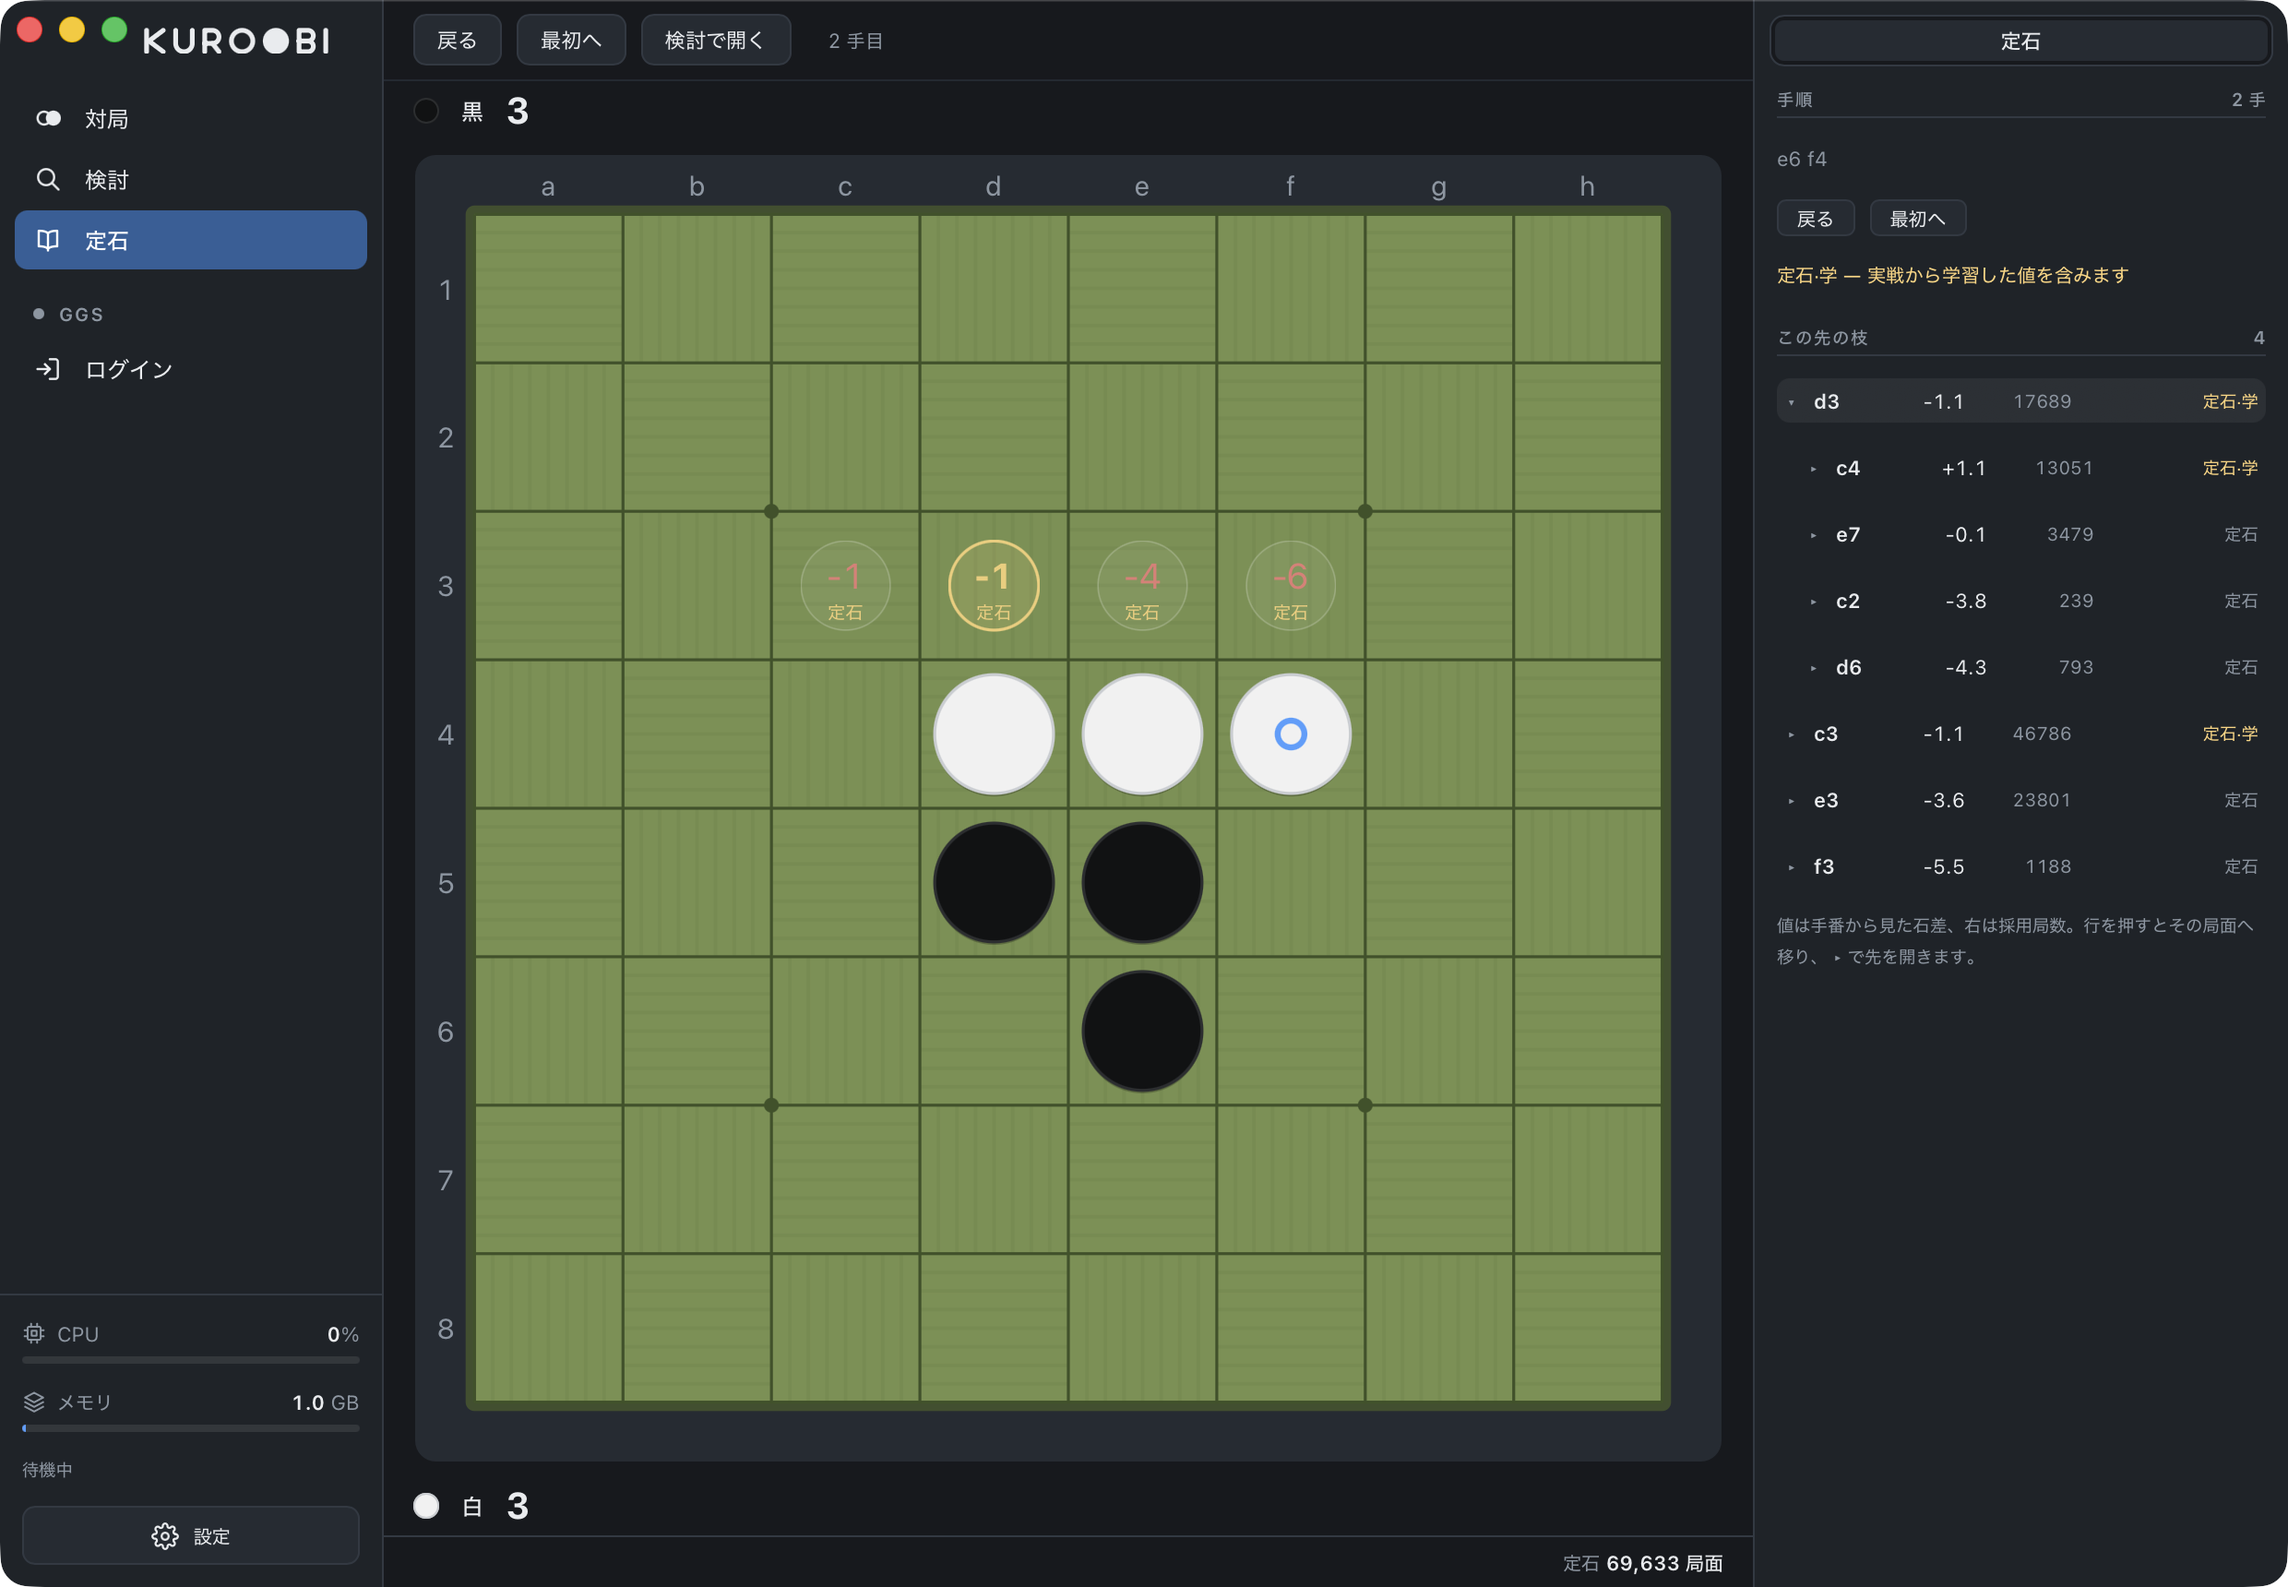
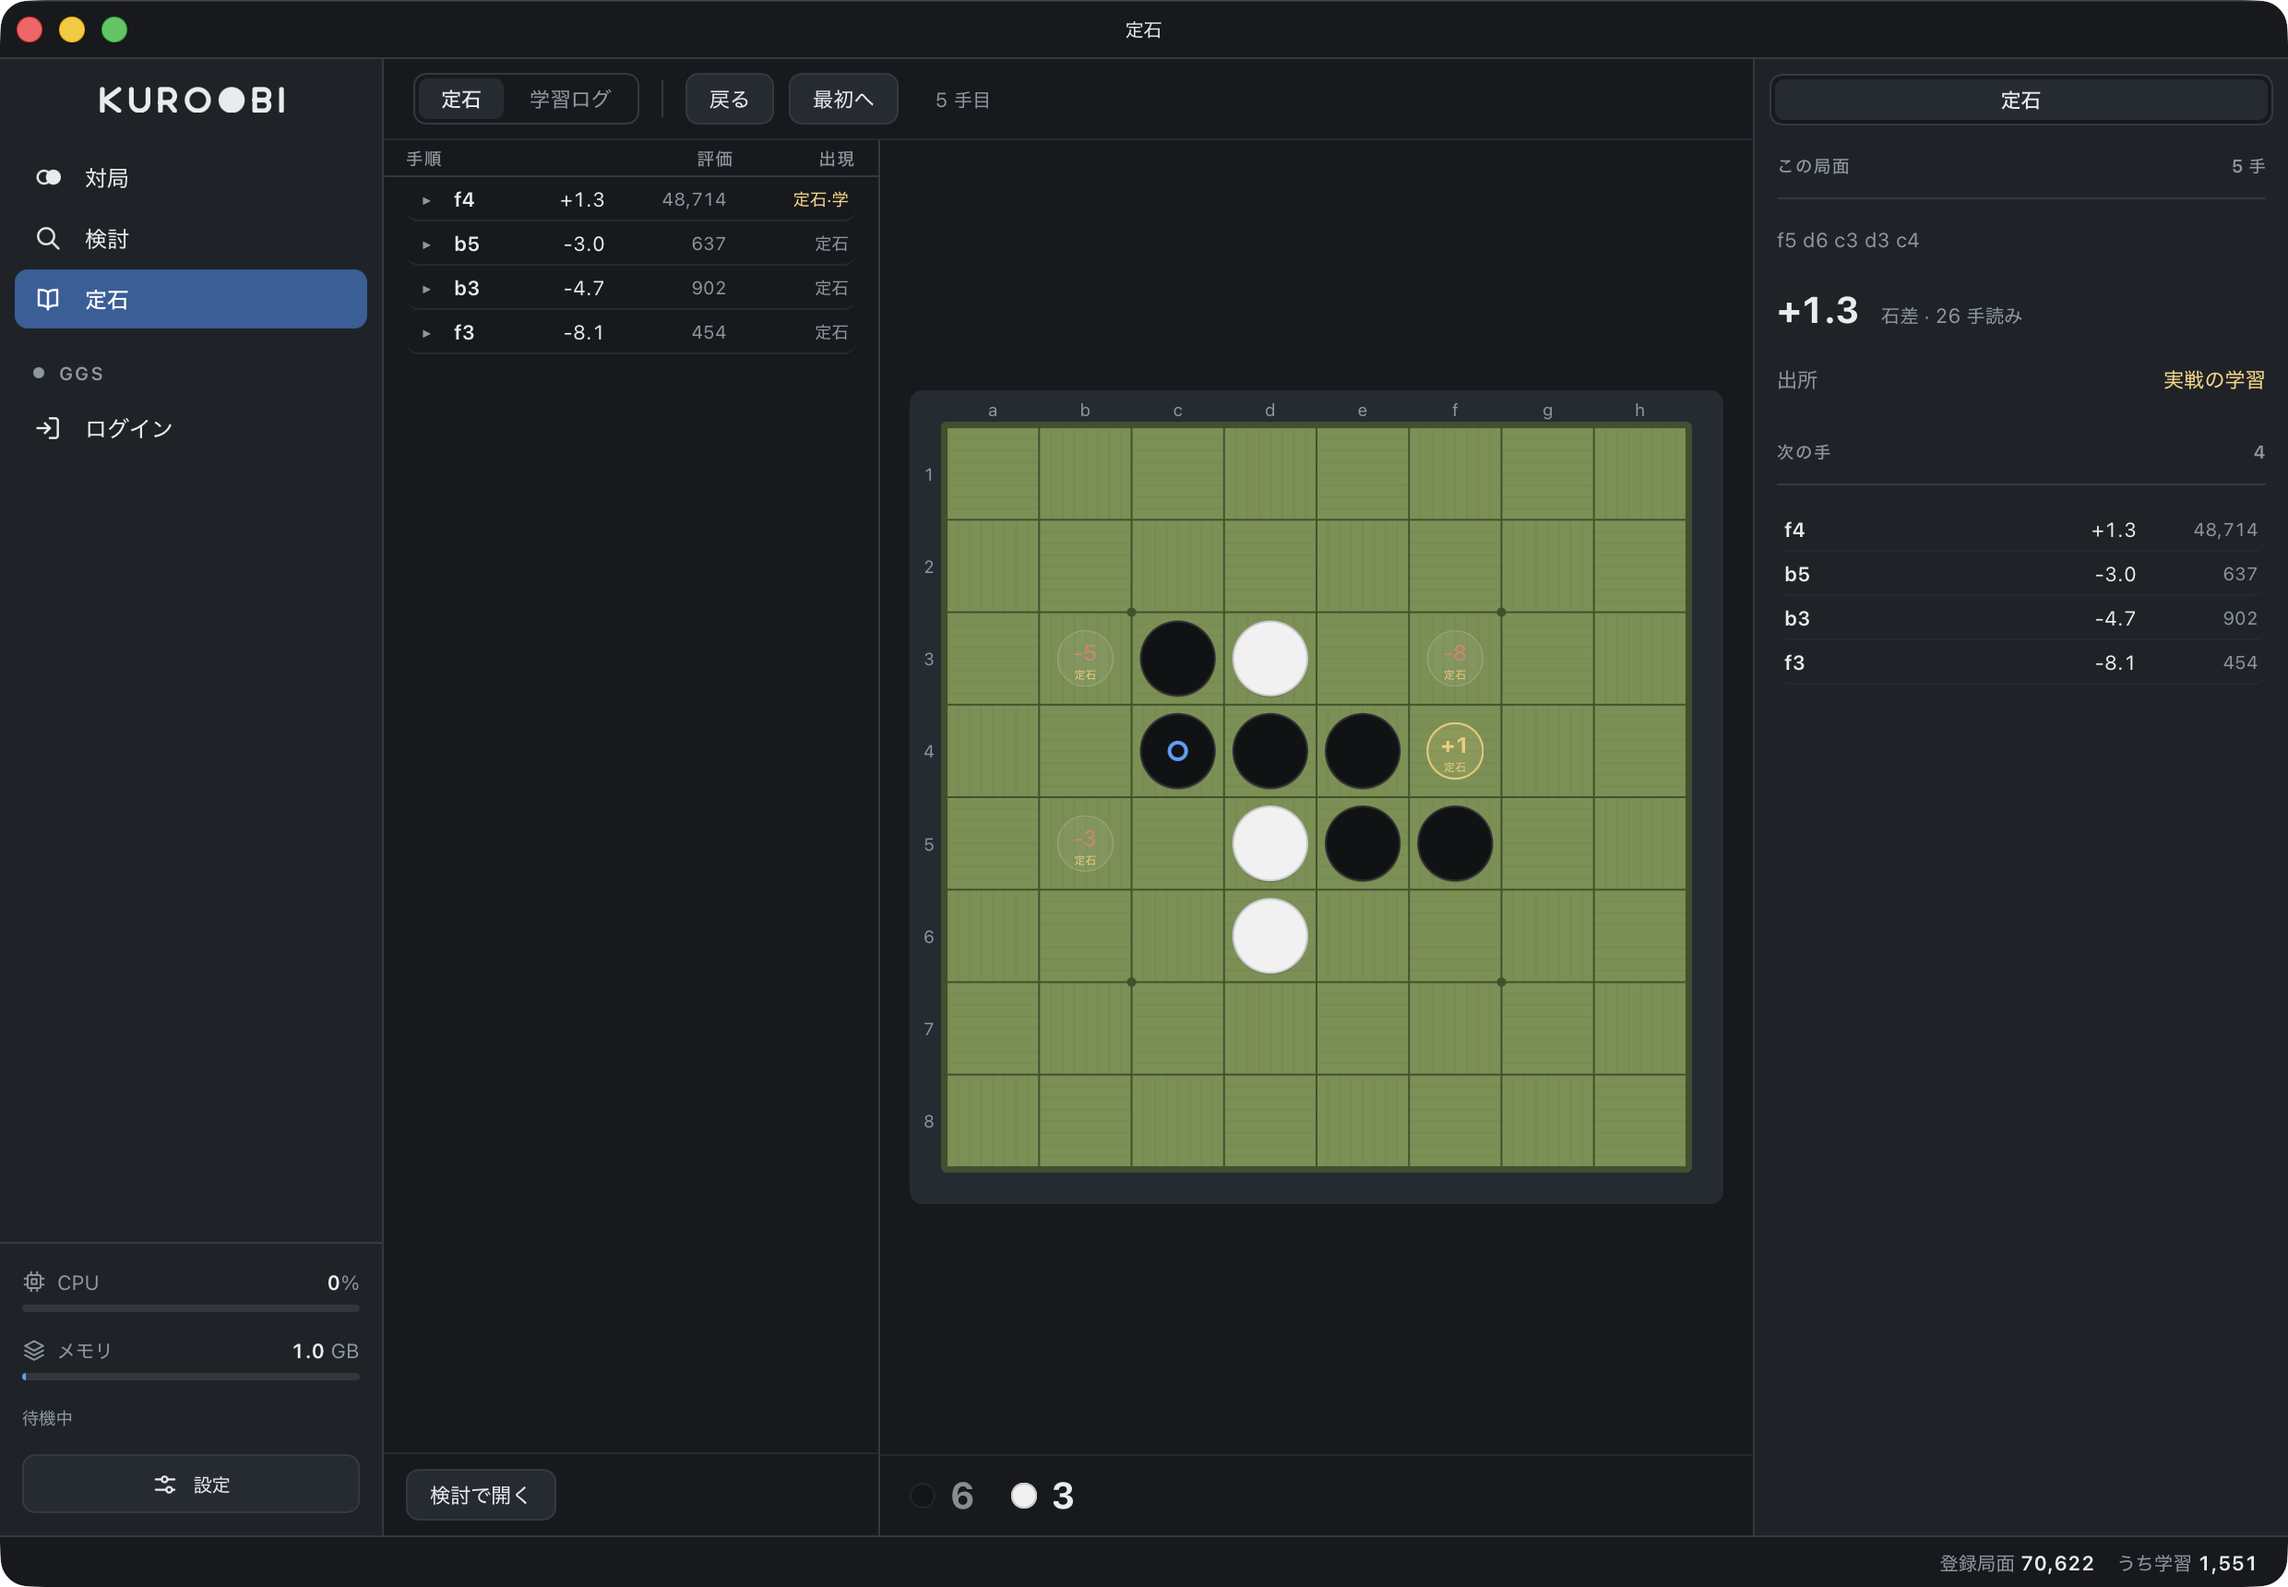
docs: README の画面写真 3 枚を撮り直す
写真が実装から遅れており、**直す前の画面が「現在の姿」として見えて
いた**。3 枚とも骨格が違っていた。

- 対局 — 石数が盤の上下に分かれ、落としたはずの「KUROOBI の評価」が
  盤の下にあった。いまは石数と時計の 1 行
- 検討 — ツールバーに 最初へ / 戻る / 進む / 最後へ が並んでいた。
  規則 95 で手数の帯に一本化したので、いまは帯の左端に 4 つ
- 定石 — 木が右ドックにあり 2 列だった。いまは 3 列 (木 269 / 盤 /
  この局面と次の手 291) で、ツールバーに「定石 / 学習ログ」

`gui-ggs.png` は**ツールバーを持たない画面**なので上の変更の影響を
受けておらず、現行どおりだった。撮り直していない。

あわせて `docs/gui.md` の説明も 2 か所直した。

- 対局の「下に石数と KUROOBI の評価」→「下に石数と時計」。評価は
  棋譜表の列が持つので落としてある
- 検討の「マスに全合法手の評価値が出る」→ 既定では出ない。
  ツールバーの「評価値を表示」を入れたときだけ出ると書き足した

diff --git a/docs/gui.md b/docs/gui.md
@@ -11,13 +11,14 @@
 
 ![対局画面](img/gui-play.png)
 
-*対局。盤の上に操作、下に石数と KUROOBI の評価。右の棋譜は 1 手ごとの
-評価値・思考時間・出所つきで、悪手には下げ幅の ▼ が付く。数字は下の帯。*
+*対局。盤の上に操作、下に石数と時計。右の棋譜は 1 手ごとの評価値・
+思考時間・出所つきで、悪手には下げ幅の ▼ が付く。数字は下の帯。*
 
 ![検討画面](img/gui-study.png)
 
-*検討。マスに全合法手の評価値が出る。盤の下は手数を辿る帯 (敗着は赤い印)、
-その下は棋譜を通して測った評価値グラフ。*
+*検討。盤の下は手数を辿る帯 (敗着は赤い印)、その下は棋譜を通して測った
+評価値グラフ。ツールバーの「評価値を表示」を入れると、盤のマスにも全合法手の
+評価値が出る。*
 
 ![定石ブラウザ](img/gui-book.png)
 
